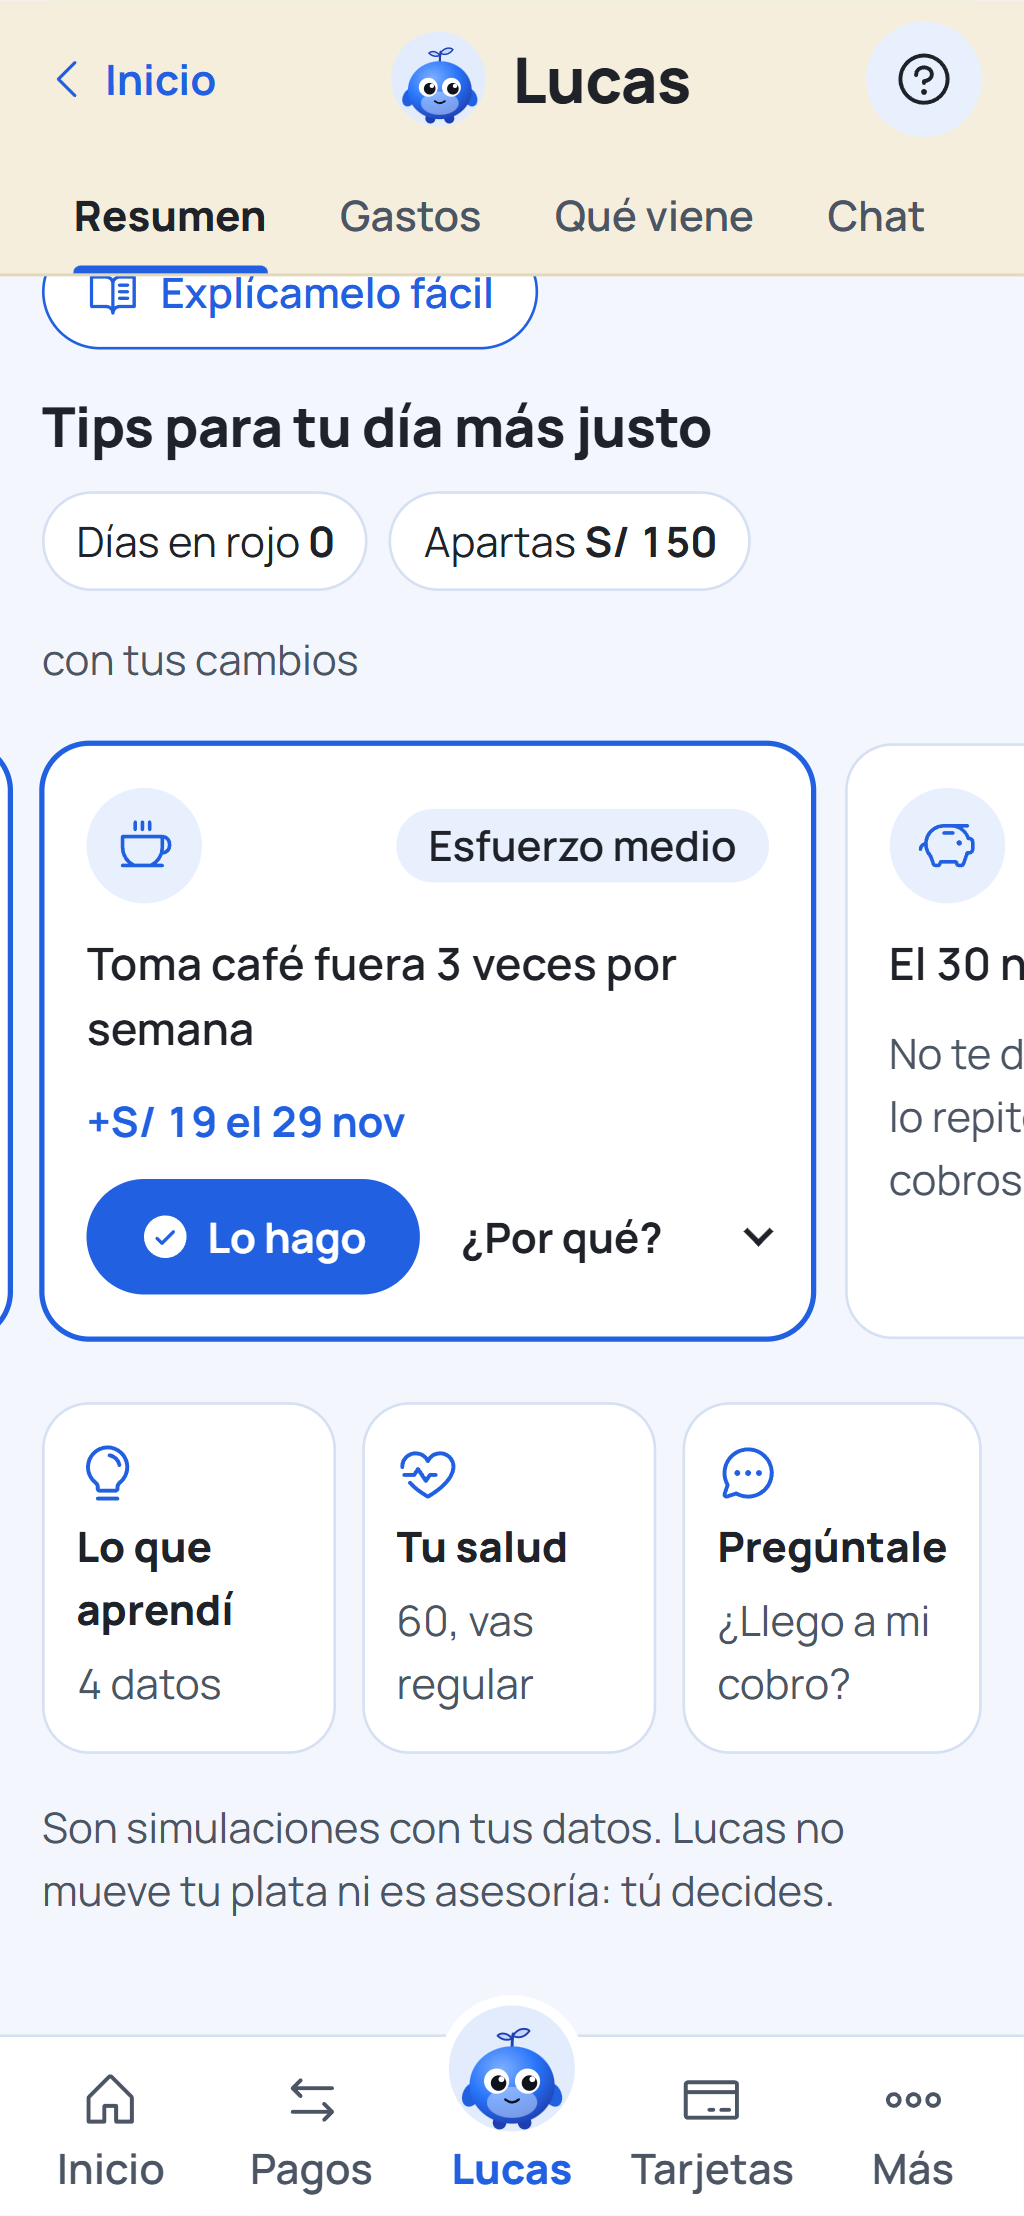
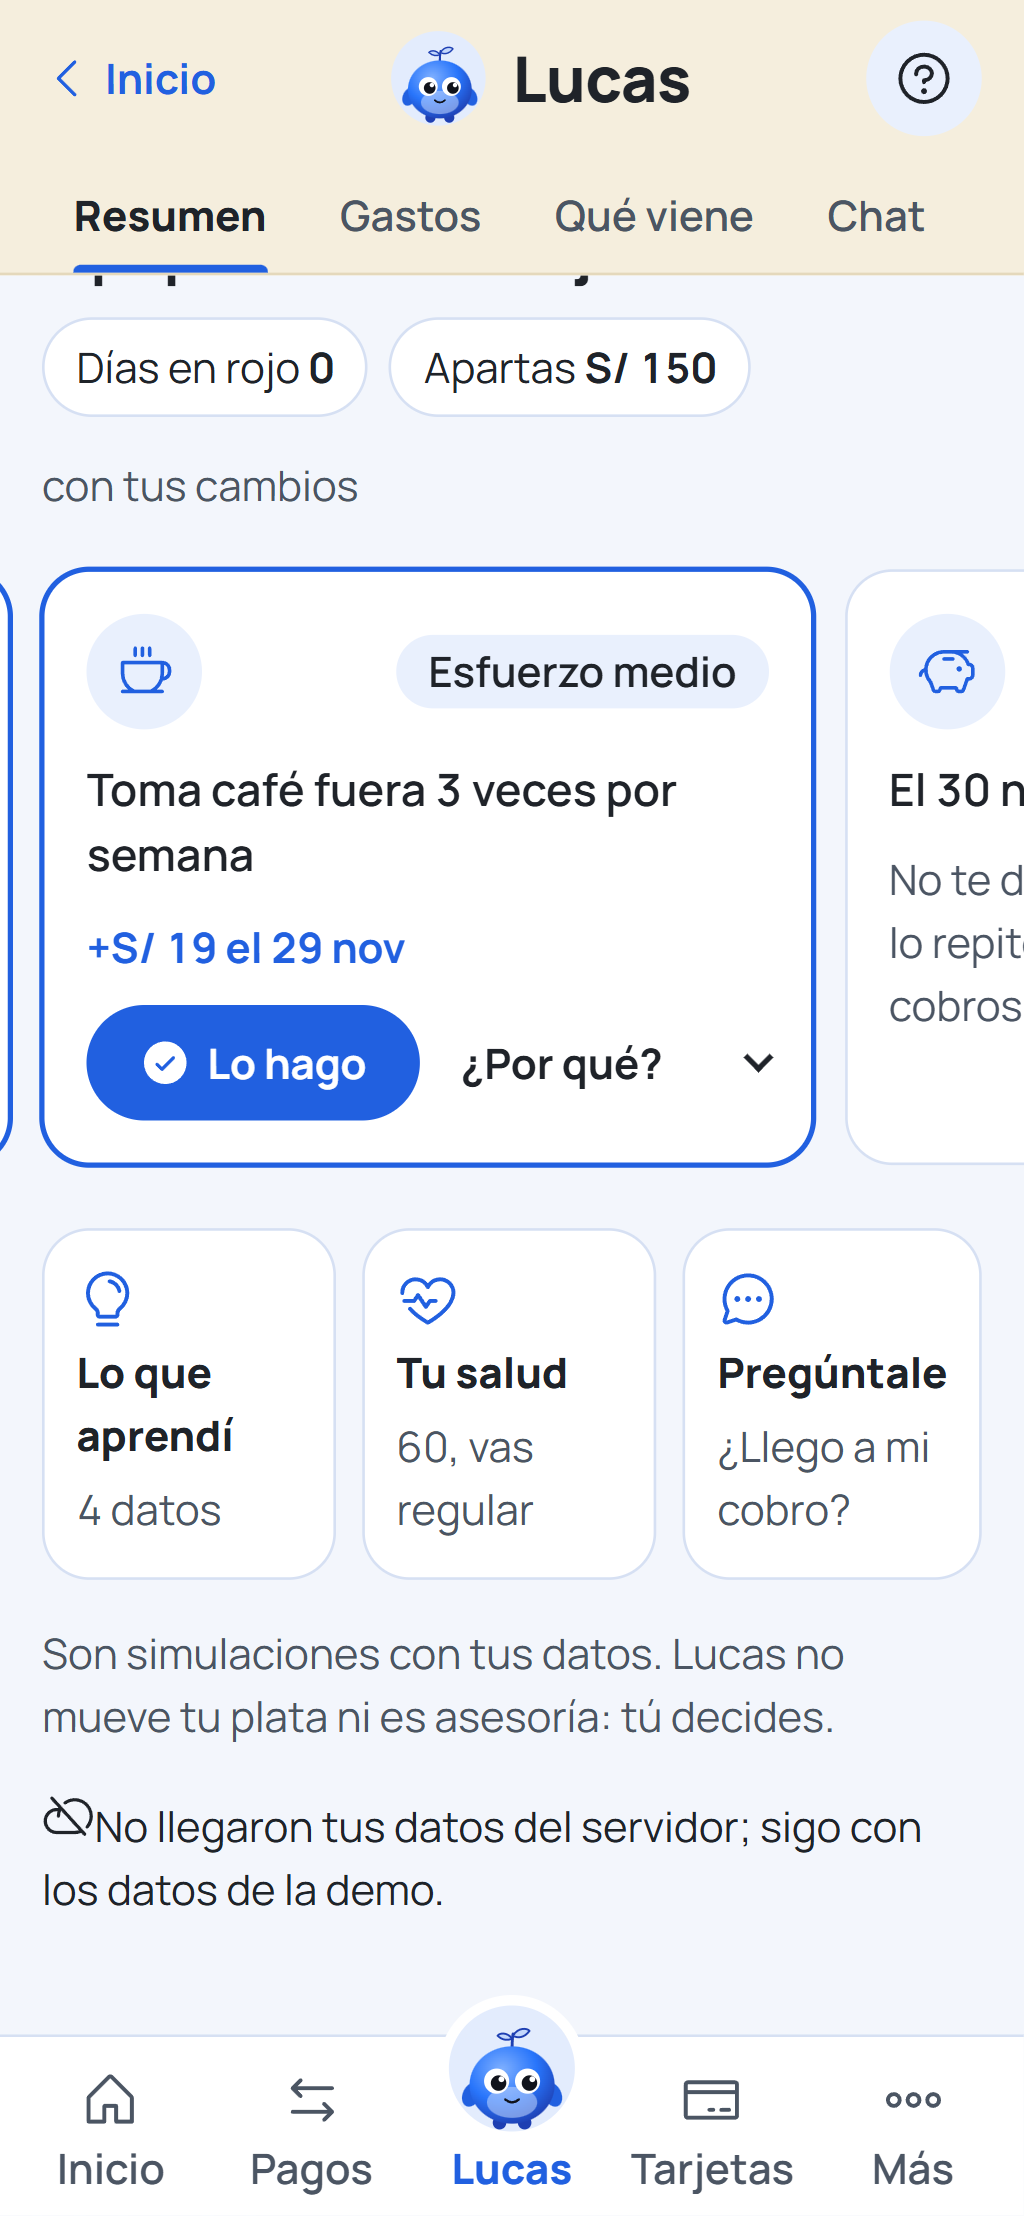
fix(demo): guion y prueba al día con la capa de API y el motor en src/motor
La preparación levanta la API, el plan B explica el aviso de datos sin
servidor y la frase del apartado sigue el texto nuevo de la pantalla.

diff --git a/app/e2e/guion-demo.spec.js b/app/e2e/guion-demo.spec.js
@@ -2,8 +2,8 @@ import { readFileSync } from 'node:fs'
 import { fileURLToPath } from 'node:url'
 import { expect, test } from '@playwright/test'
 import { conSigno, enSoles, textoDiasEnRojo } from '../src/formato.js'
-import { vistaCon } from '../src/mocks/cliente.js'
-import { PERSONA_INICIAL } from '../src/mocks/personas.js'
+import { vistaCon } from '../src/motor/cliente.js'
+import { PERSONA_INICIAL } from '../src/motor/personas.js'
 
 // Recorre demo/GUION.md paso a paso. Las cifras esperadas salen del mismo motor que usa la app,
 // así que si el motor cambia, esta prueba avisa que el guion quedó viejo.
@@ -111,9 +111,11 @@ test('guion de 60 s: banca → aviso → «Lo hago» → sin rojo → apartar', 
   // Paso 5: lo que puede apartar al cobrar.
   await page.getByRole('link', { name: 'Resumen' }).click()
   const apartado = tips.locator('.tip').last()
-  await apartado.scrollIntoViewIfNeeded()
+  // Centrada, para que la barra inferior no tape el total que se dice en voz alta.
+  await apartado.evaluate((tarjeta) => tarjeta.scrollIntoView({ block: 'center', inline: 'center' }))
   await expect(apartado).toContainText(`podrías apartar ${cifras.apartado}`)
   await expect(apartado).toContainText(cifras.apartadoTotal)
-  await expect(apartado.getByRole('heading', { level: 3 })).toBeInViewport()
+  await expect(apartado.getByRole('heading', { level: 3 })).toBeInViewport({ ratio: 1 })
+  await expect(apartado.locator('p', { hasText: cifras.apartadoTotal })).toBeInViewport({ ratio: 1 })
   await captura('05-apartar')
 })

diff --git a/demo/GUION.md b/demo/GUION.md
@@ -3,11 +3,11 @@
 Flujo: banca → tarjeta «Lucas te avisa» → «Lo hago» → el rojo desaparece → apartar al cobrar.
 Persona: independiente con recibo por honorarios, hoy 14 de noviembre, cobra S/ 2,000 el 30 nov.
 
-Las cifras de este guion son las que da el motor del front (`app/src/mocks/motor.js` y `cliente.js`), no se escribieron a mano. La prueba `app/e2e/guion-demo.spec.js` revisa que cada cifra de abajo siga saliendo igual en la pantalla. Si alguien cambia el motor y la prueba falla, se actualiza este guion antes de ensayar.
+Las cifras de este guion son las que da el motor del front (`app/src/motor/motor.js` y `cliente.js`), no se escribieron a mano. La prueba `app/e2e/guion-demo.spec.js` revisa que cada cifra de abajo siga saliendo igual en la pantalla. Si alguien cambia el motor y la prueba falla, se actualiza este guion antes de ensayar.
 
 ## Antes de empezar (no cuenta en los 60 s)
 
-1. `cd app` y `npm run dev`. Abrir `http://localhost:5173` en el navegador, a pantalla completa.
+1. Desde la raíz del repo, levantar la API: `uvicorn src.api.main:app --host 127.0.0.1 --port 8000`. En otra terminal, `cd app` y `npm run dev`. Abrir `http://localhost:5173` en el navegador, a pantalla completa. Si al pie de Lucas aparece «No llegaron tus datos del servidor», la API no está levantada (ver plan B).
 2. Ingresar una vez con la persona independiente (la que viene elegida), aceptar el permiso con «Acepto, activar Lucas», entrar a Lucas, pulsar «Saltar» en la guía y volver a la banca. Así ni el permiso ni la guía aparecen durante la demo.
 3. Si en un ensayo quedaron tips activos, quitarlos con «Lo hago» otra vez (se recuerdan entre visitas). El aviso de Lucas tiene que decir −S/ 60 y los tips, «Días en rojo 2 → 0».
 4. Dejar la pantalla en la banca, con los montos visibles.
@@ -22,7 +22,7 @@ Las cifras de este guion son las que da el motor del front (`app/src/mocks/motor
 | 0:27–0:32 | Resumen, tip 2 | Deslizar a la izquierda y «Lo hago» en «Pausa MusiKa Plus hasta tu próximo cobro» | «Pausar una suscripción que no usa: +S/ 22.» |
 | 0:32–0:38 | Resumen, tip 3 | Deslizar y «Lo hago» en «Toma café fuera 3 veces por semana»; señalar «Días en rojo 0» | «Menos café fuera: +S/ 19. Ya no queda en rojo.» |
 | 0:38–0:46 | Qué viene | La pestaña «Qué viene» y subir hasta arriba | «En su pronóstico, el peor caso pasa a +S/ 12.» |
-| 0:46–1:00 | Resumen, tarjeta «Después de cobrar» | La pestaña «Resumen» y deslizar los tips hasta el final | «Y el 30, al cobrar, podría apartar S/ 150 sin volver al rojo; si lo repite 3 meses, juntaría S/ 450. Lucas gana cuando ella ahorra. No mueve su plata ni es asesoría: ella decide.» |
+| 0:46–1:00 | Resumen, tarjeta «Después de cobrar» | La pestaña «Resumen» y deslizar los tips hasta el final | «Y el 30, al cobrar, podría apartar S/ 150 sin volver al rojo; si lo repite en sus próximos 3 cobros, juntaría S/ 450. Lucas gana cuando ella ahorra. No mueve su plata ni es asesoría: ella decide.» |
 
 Son unas 110 palabras: a 2,5 por segundo, unos 45 s de voz y el resto para tocar. Cada cifra que se dice está a la vista en ese momento.
 
@@ -46,11 +46,11 @@ No se dicen nunca:
 
 ## Plan B
 
-Hoy el recorrido de 60 s no depende de la API ni del LLM: el front calcula todo con su motor local y funciona sin internet. Aun así:
+El recorrido de 60 s no depende de la API ni del LLM: las cifras de pantalla salen del motor local del front, que funciona sin internet. El front sí pide los datos a la API; si no responde en 4 s, Lucas muestra al pie «No llegaron tus datos del servidor; sigo con los datos de la demo.» y las cifras no cambian.
 
 | Falla | Qué se hace | Qué se dice |
 |---|---|---|
-| La API (FastAPI) no responde | Nada: este flujo no la usa. Si en algún momento se conecta el front a la API, volver a una versión con el motor local | «Lucas también funciona sin conexión.» |
+| La API (FastAPI) no responde | Seguir: las cifras son las mismas y aparece el aviso de datos al pie de Lucas | «Si el servidor no responde, Lucas lo dice y sigue con los datos de la demo: nunca se queda en blanco.» |
 | El LLM (Ollama o Gemini) no responde | Nada: este flujo no usa el chat, y el chat del front todavía no llama al LLM (responde con plantillas). Si preguntan por el chat, usar una pregunta sugerida | «En esta demo el chat responde con plantillas y todas las cifras salen del motor. Cuando se conecte el LLM, solo va a redactar sobre esas cifras.» |
 | `npm run dev` no levanta o el navegador se cuelga | Abrir la otra laptop con el front ya levantado; si tampoco, pasar las capturas de `demo/capturas/` en orden (`laptop-01-banca.png` … `laptop-05-apartar.png`) | Mismo guion, señalando cada captura |
 | Todo lo anterior | Video de respaldo | — |

diff --git a/.claude/equipo/marcela/registro.md b/.claude/equipo/marcela/registro.md
@@ -34,6 +34,7 @@ Todo lo que subo lleva la firma «Nakusuo/Marcela».
 | 2026-11-14 | MC-03 Bandeja de avisos y MC-07 Evidencia | `feature/front-avisos-evidencia` | Bandeja en `/lucas/avisos` (campana en la banca y en Lucas): regla de estado.md (3–7 días normal, 0–2 urgente, > 7 sin aviso, 3 por semana con lugar para el riesgo, un aviso por hueco), «Urgente»/«Aviso» con texto, ícono y color, «¿Por qué?» con datos, supuesto y qué tan seguro, «útil / no me sirve», enlace a la acción, demo de la regla que no gasta el tope y botón para borrar lo guardado en Más. Panel `/evidencia` para el jurado: cada cifra leída de `models/metricas*.json` con su fuente (falla la build si falta una clave), impacto en S/ con IC 95 % primero, 12 técnicas frente a su baseline, agente y RAG, perturbaciones y alertas de equidad, incluido lo que sale peor. npm test 45/45 y Playwright 68/68 en 1366×768 y 390 px; tras el rebase sobre develop (API, consentimiento y personas), 83/83 y 112/112. Jueces ronda 1: CAMBIOS ×3, arreglados en eb95624; ronda 2: APRUEBA ×3 (producto 3,55/5), con los detalles aplicados en dd38be5. Push y PR #17 a `develop`. Nakusuo/Marcela |
 | 2026-11-14 | Opcionales y mejoras de los jueces en el front | `feature/front-ajustes-jueces` | 22 commits chicos. Técnicos: CSS de `hero-actual-alto`, `enSolesRedondo` (S/ 62 en todos lados), porcentajes que suman 100 (mayor resto), banda en claro 1.99 → 3.2:1 con halo bajo la línea, barra de días entre 0 y 1, pruebas de `categorias.js`. Producto: seguimiento del tip elegido («Llevas 0 de 2 veces en RapiFood hasta el 30 nov»), salud que se mueve con los tips (independiente 56, meta 63; formal 70, meta 74; regla provisional hasta DI-07), «Evitas N días en rojo» medido sobre lo ya elegido, «La pausaré hasta mi cobro» para MusiKa desde Suscripciones, cada parte de la salud lleva a una acción. Rebase sobre `develop` con los PR #13, #15, #16 y #17: lo del motor pasó a `src/motor/cliente.js` y sirve a las dos personas. 105/105 node, 122/122 Playwright (`PW_PUERTO`), claro/oscuro a 1366×768 y 390 px con las dos personas. juez-tecnico CAMBIOS → APRUEBA; juez-producto CAMBIOS → APRUEBA 68/100. Sin push. Nakusuo/Marcela |
 | 2026-11-14 | Guion de demo de 60 s | `feature/docs-demo-guion` | `demo/GUION.md`: 7 pasos con tiempo, qué se toca y qué se dice (~110 palabras), frases de integración permitidas y prohibidas, plan B (el flujo no usa API ni LLM; capturas; video pendiente). Prueba `app/e2e/guion-demo.spec.js`: recorre el guion, saca 14 capturas en `demo/capturas/` (laptop y celular), toma cada cifra del motor y falla si el guion cita otra o si la cifra dicha no está a la vista. juez-producto APRUEBA y juez-cumplimiento CUMPLE (2.ª revisión). 56/56 Playwright en verde con puerto propio (otras sesiones usan el 5174). Nakusuo/Marcela |
+| 2026-11-14 | Guion de demo al día con develop | `feature/docs-demo-guion` | Rebase sobre los PR #13 (consentimiento y persona) y #15 (capa `src/api`, motor en `src/motor`). La preparación del guion acepta el permiso y levanta la API; el plan B dice que sin API aparece el aviso de datos y las cifras no cambian. 96/96 Playwright y 67/67 de funciones. juez-cumplimiento CUMPLE (3.ª revisión). PR #12 unido a `develop`. Nakusuo/Marcela |
 
 ## Lo que acordamos
 

diff --git a/.claude/planes/verificaciones.md b/.claude/planes/verificaciones.md
@@ -4,6 +4,7 @@ Una fila por veredicto de un juez. Lo más reciente arriba.
 
 | Fecha y hora | Rama o módulo | Juez | Veredicto | Pendientes |
 |---|---|---|---|---|
+| 2026-11-14 | feature/docs-demo-guion (tras PR #13 y #15) | juez-cumplimiento | CUMPLE (3.ª revisión) | Plan B al día con la capa `src/api`: las cifras siguen del motor local y la API solo cambia el aviso de datos (texto y 4 s iguales al código). Frase del apartado igual a la pantalla. Capturas regeneradas. Pidió Nakusuo/Marcela |
 | 2026-11-14 | feature/docs-demo-guion (demo/GUION.md) | juez-producto | APRUEBA (2.ª revisión) | ~108 palabras, unos 43 s de voz; cada cifra dicha está a la vista (+S/ 31, +S/ 22, +S/ 19, +S/ 12, S/ 150). Captura del tip 2 deslizado aplicada después. Pendiente: cronometrar 3 ensayos. Pidió Nakusuo/Marcela |
 | 2026-11-14 | feature/docs-demo-guion (demo/GUION.md) | juez-cumplimiento | CUMPLE (2.ª revisión) | Plan B honesto (el front no llama a la API ni al LLM; el chat usa plantillas), Banco Vértice ficticio, «podría integrarse», sin cifras públicas ni de retención. Opcional aplicado: «no es asesoría» dicho en voz. Pidió Nakusuo/Marcela |
 | 2026-11-14 | feature/docs-demo-guion (demo/GUION.md) | juez-producto | CAMBIOS | ~184 palabras para 60 s; el aviso (−S/ 29, −S/ 7) y el +S/ 12 quedaban fuera de pantalla; frases técnicas. Pidió Nakusuo/Marcela |
